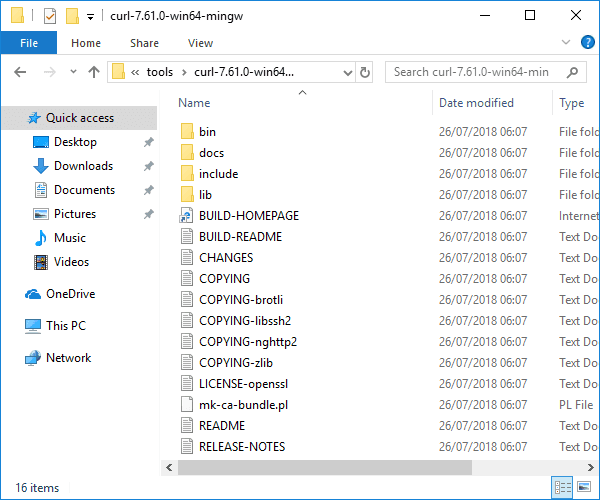
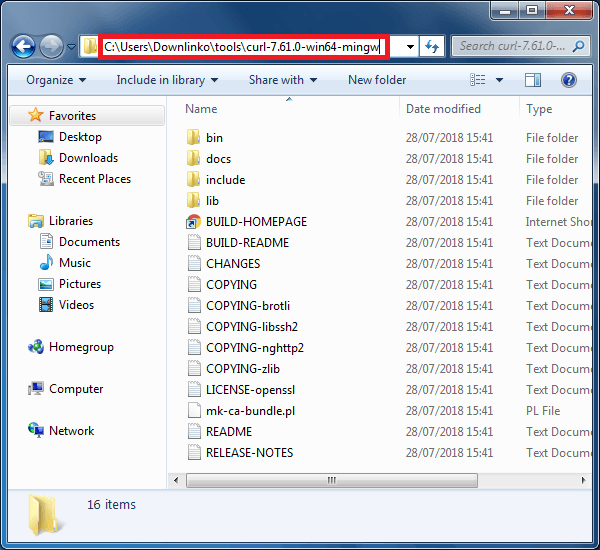
update post

diff --git a/_posts/development/2018-07-23-download-install-curl-windows.md b/_posts/development/2018-07-23-download-install-curl-windows.md
@@ -89,19 +89,17 @@ This extracts all cURL files under `C:\Users\Downlinko\tools\curl-7.61.0-win64-m
 
 We need to set up an environment variable that will point to our cURL installation.
 
-Click on the search button. Then type "<kbd>env</kbd>" (without quotes).
-
-> On Windows 7 click on the Windows button.
+Click on the Windows button. Then type "<kbd>env</kbd>" in the search box and press `ENTER`.
 
 Click on the `Edit environment variables for your account` shortcut.
 
-<img src="{{ site.url }}/assets/images/posts/development/windows-search-env.png" alt="windows search env">
+<img src="{{ site.url }}/assets/images/posts/development/windows-7-search-env.png" alt="windows 7 search env">
 
 Wait for the environment variables window to open.
 
 Click on `New…`.
 
-<img src="{{ site.url }}/assets/images/posts/development/windows-account-environment-variables-new.png" alt="windows account environment variables new">
+<img src="{{ site.url }}/assets/images/posts/development/windows-7-account-environment-variables-new.png" alt="windows 7 account environment variables new">
 
 Enter "<kbd>CURL_HOME</kbd>" as variable name. Enter the `[CURL_INSTALL_DIR]` as variable value.
 
